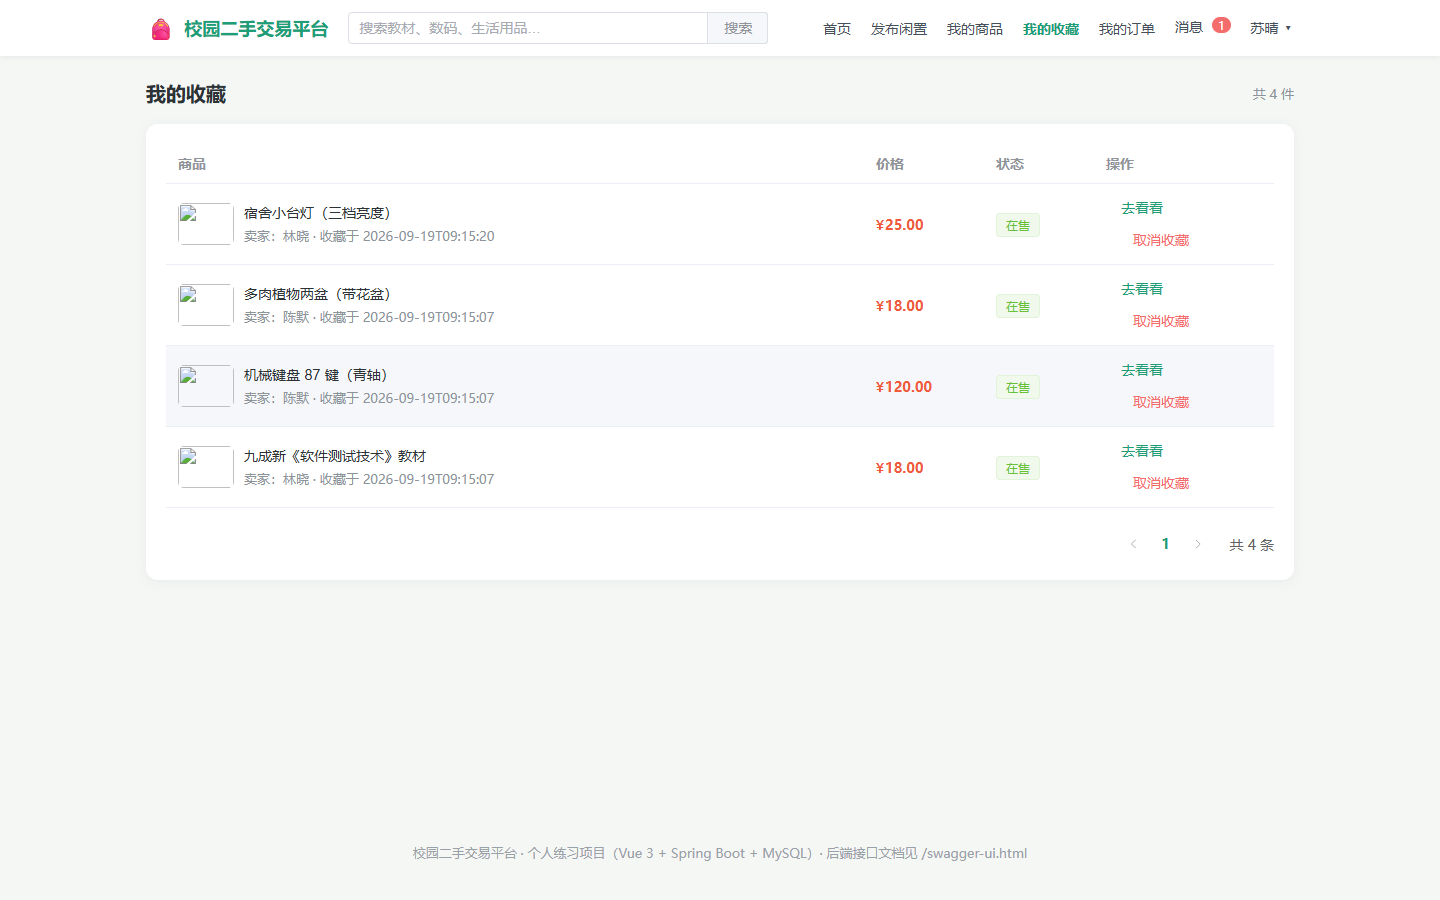
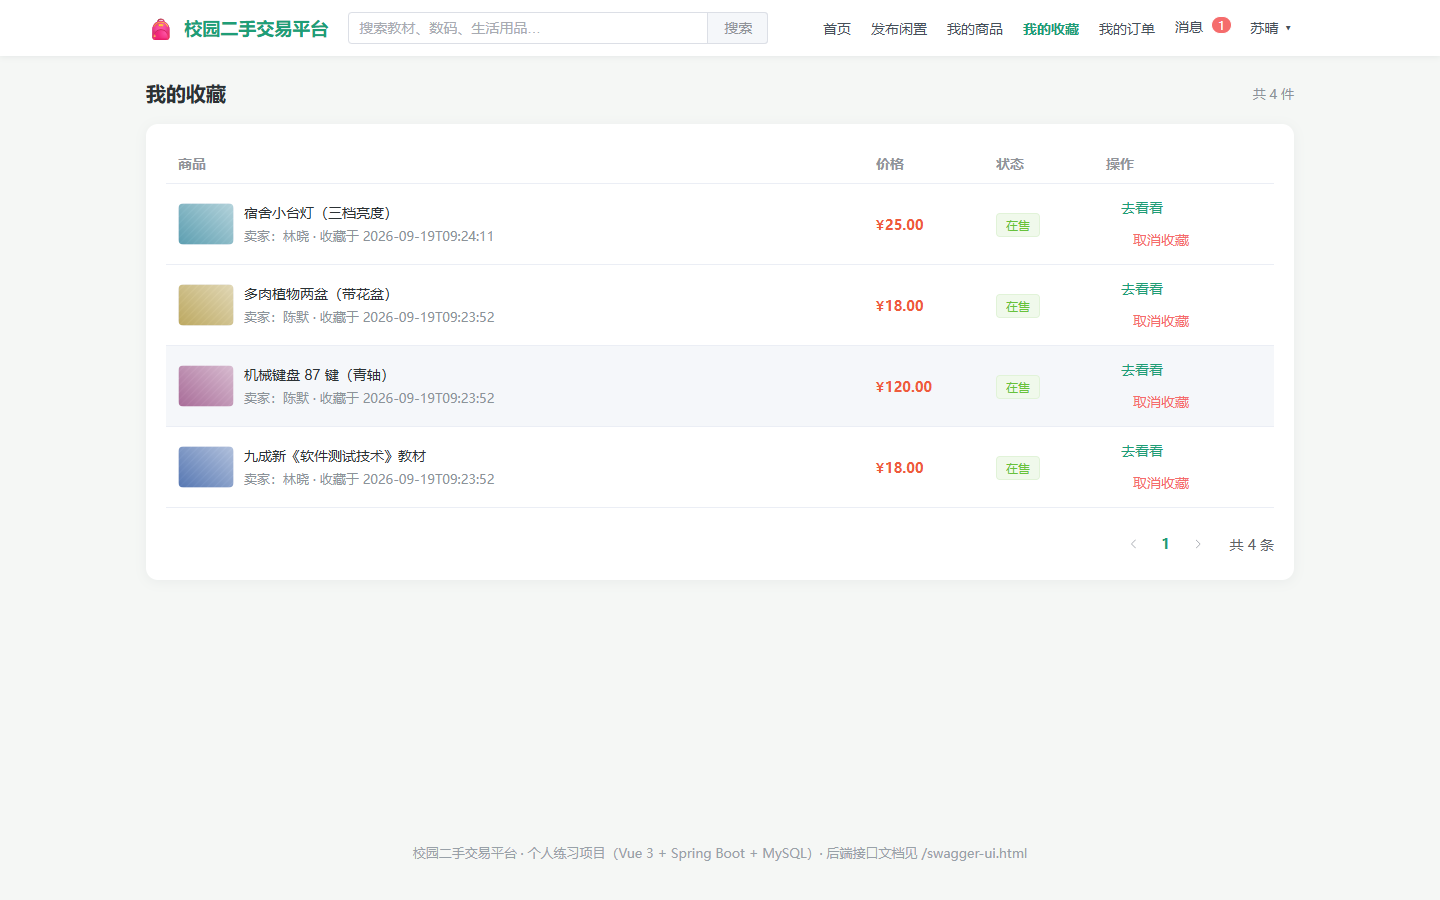
fix: 开发态补充 /seed 代理并刷新前端执行截图与测试报告

diff --git a/frontend/vite.config.js b/frontend/vite.config.js
@@ -15,6 +15,11 @@ export default defineConfig({
       '/uploads': {
         target: 'http://localhost:8080',
         changeOrigin: true
+      },
+      // 初始数据里的示例商品图（由后端 Spring 静态资源提供）
+      '/seed': {
+        target: 'http://localhost:8080',
+        changeOrigin: true
       }
     }
   },
